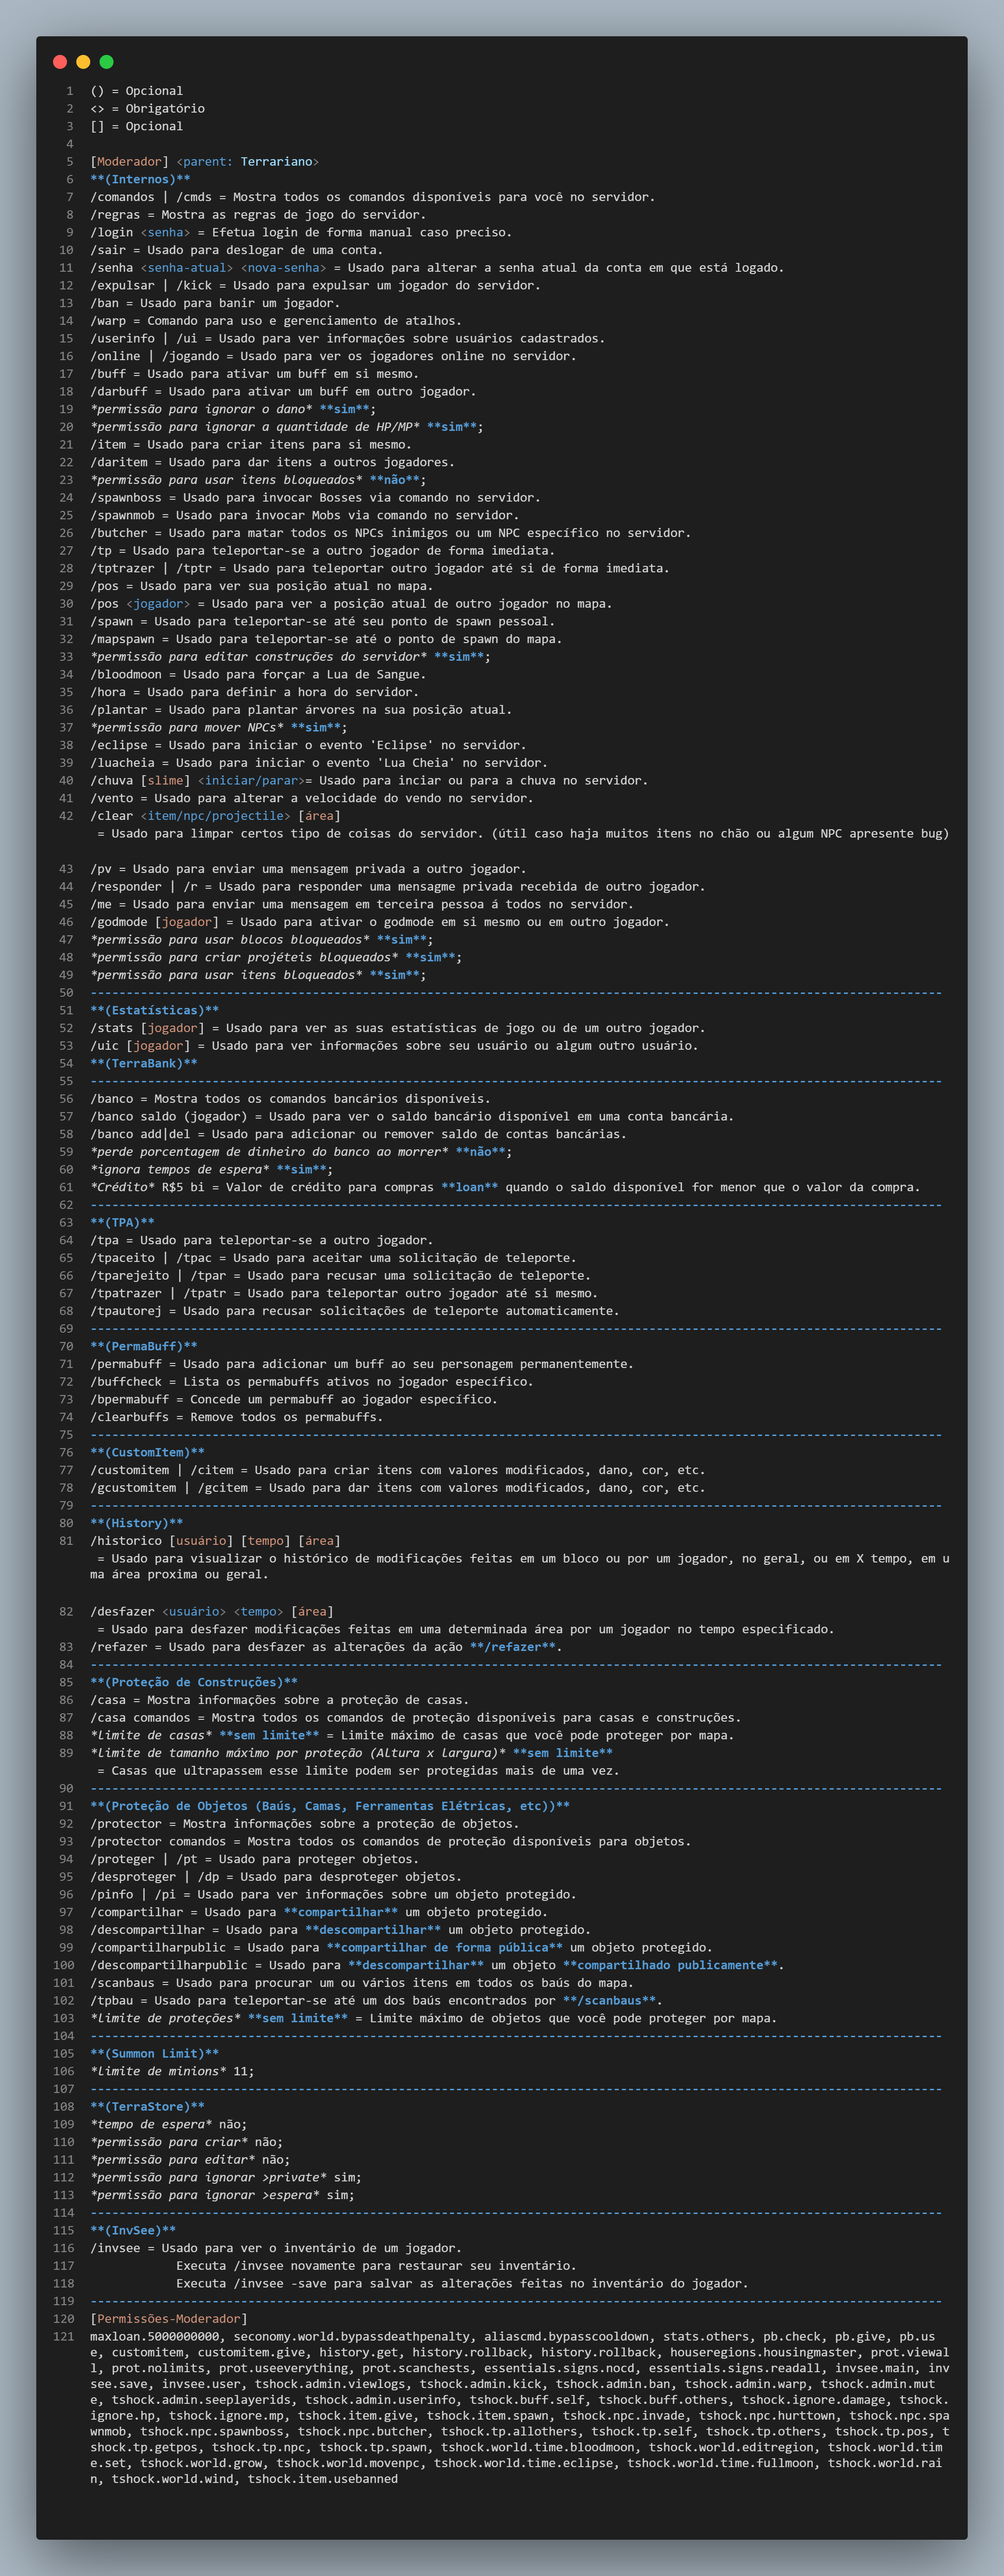
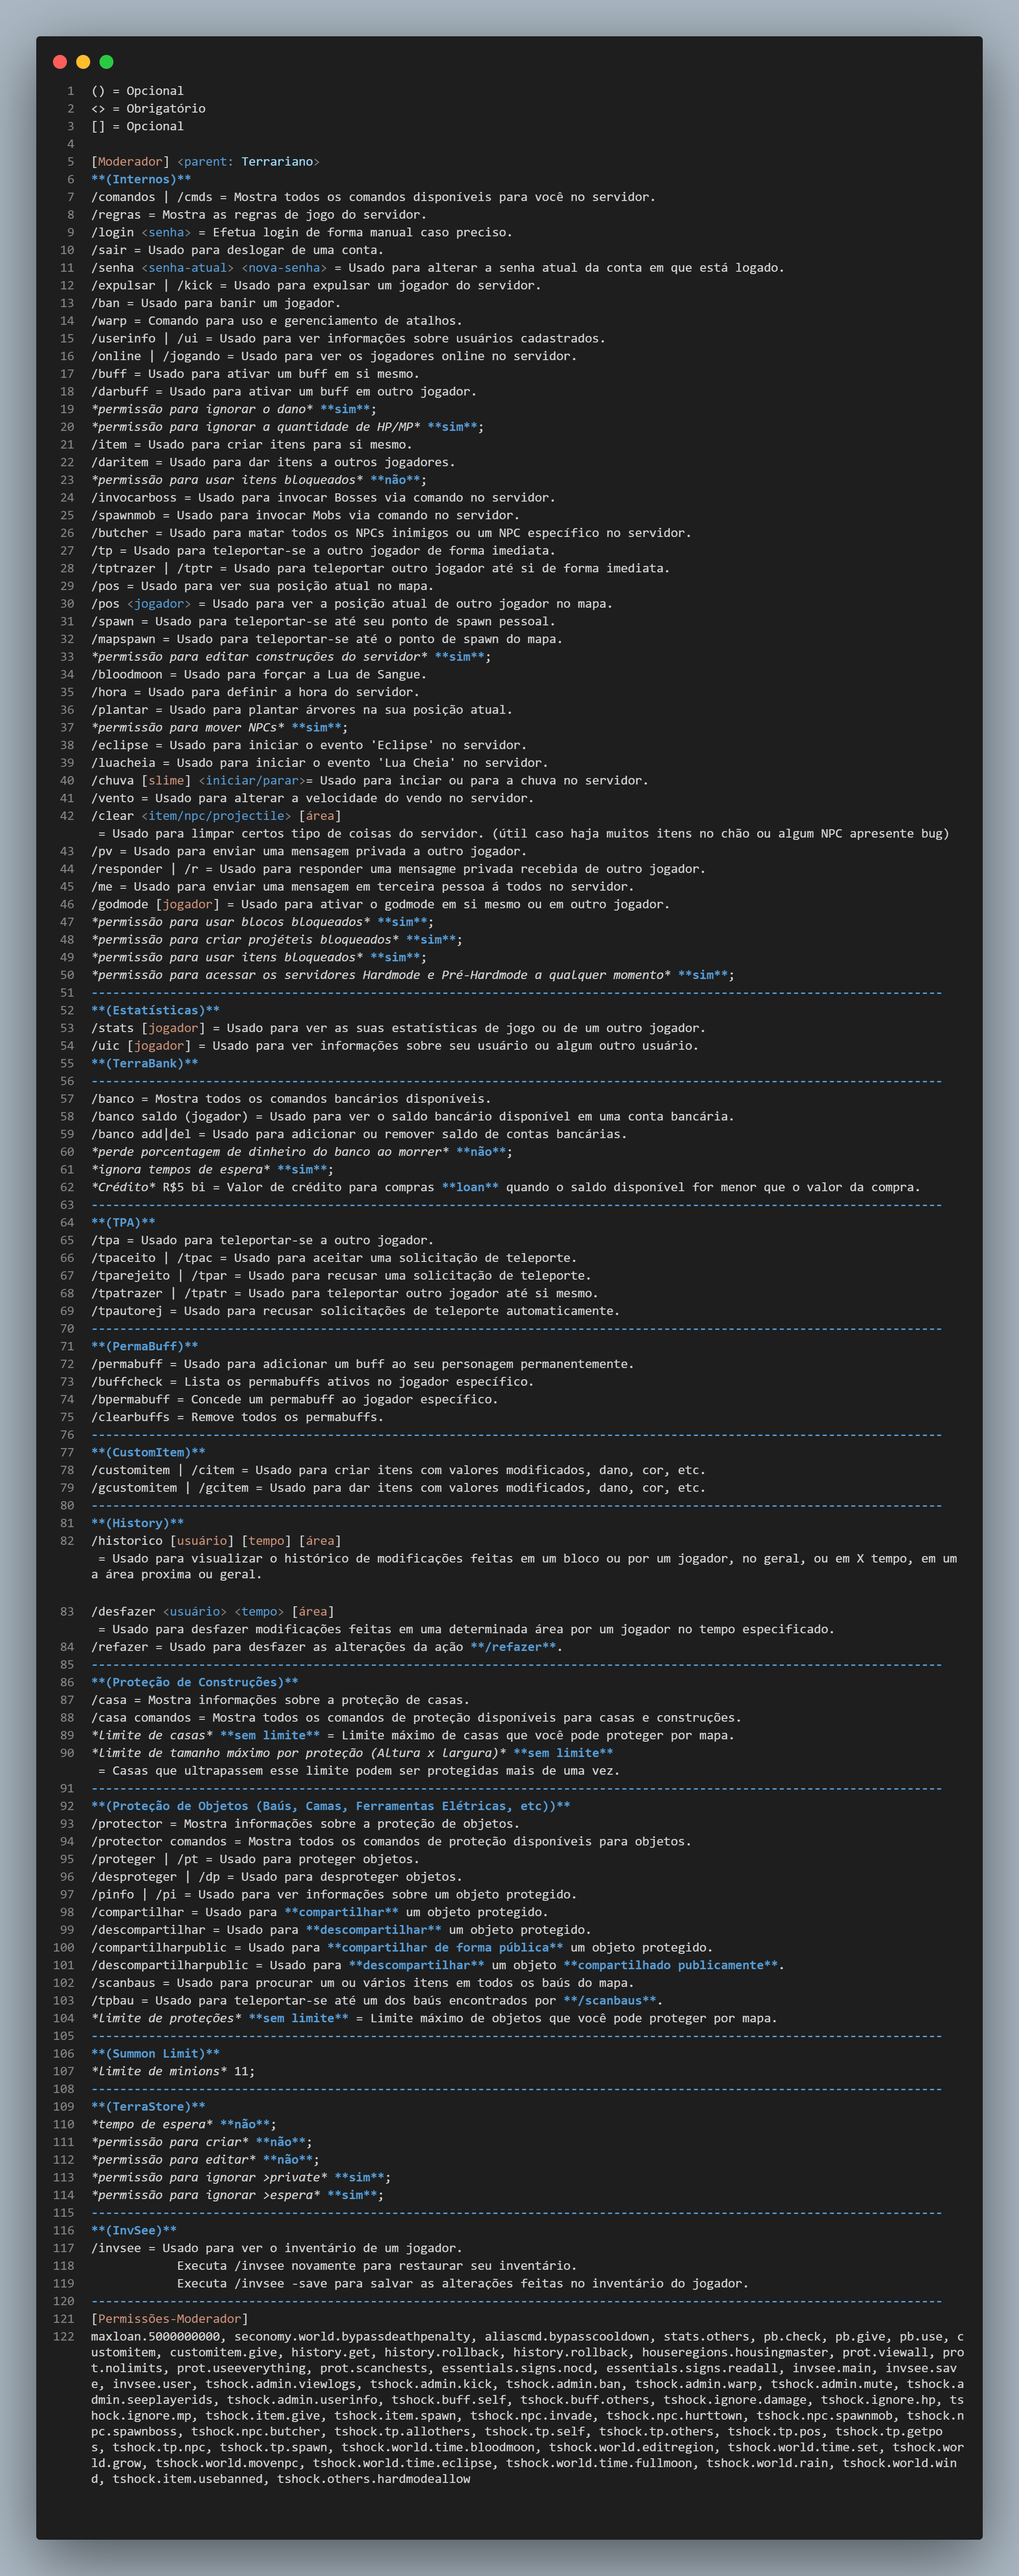
1.2

diff --git a/Mobile/1.3.0/Survival/Permissões/Moderador.md b/Mobile/1.3.0/Survival/Permissões/Moderador.md
@@ -21,7 +21,7 @@
 /item = Usado para criar itens para si mesmo.
 /daritem = Usado para dar itens a outros jogadores.
 *permissão para usar itens bloqueados* **não**;
-/spawnboss = Usado para invocar Bosses via comando no servidor.
+/invocarboss = Usado para invocar Bosses via comando no servidor.
 /spawnmob = Usado para invocar Mobs via comando no servidor.
 /butcher = Usado para matar todos os NPCs inimigos ou um NPC específico no servidor.
 /tp = Usado para teleportar-se a outro jogador de forma imediata.
@@ -47,6 +47,7 @@
 *permissão para usar blocos bloqueados* **sim**;
 *permissão para criar projéteis bloqueados* **sim**;
 *permissão para usar itens bloqueados* **sim**;
+*permissão para acessar os servidores Hardmode e Pré-Hardmode a qualquer momento* **sim**;
 -----------------------------------------------------------------------------------------------------------------------
 **(Estatísticas)**
 /stats [jogador] = Usado para ver as suas estatísticas de jogo ou de um outro jogador.
@@ -106,11 +107,11 @@
 *limite de minions* 11;
 -----------------------------------------------------------------------------------------------------------------------
 **(TerraStore)**
-*tempo de espera* não;
-*permissão para criar* não;
-*permissão para editar* não;
-*permissão para ignorar >private* sim;
-*permissão para ignorar >espera* sim;
+*tempo de espera* **não**;
+*permissão para criar* **não**;
+*permissão para editar* **não**;
+*permissão para ignorar >private* **sim**;
+*permissão para ignorar >espera* **sim**;
 -----------------------------------------------------------------------------------------------------------------------
 **(InvSee)**
 /invsee = Usado para ver o inventário de um jogador. 
@@ -118,4 +119,4 @@
             Executa /invsee -save para salvar as alterações feitas no inventário do jogador.
 -----------------------------------------------------------------------------------------------------------------------
 [Permissões-Moderador]
-maxloan.5000000000, seconomy.world.bypassdeathpenalty, aliascmd.bypasscooldown, stats.others, pb.check, pb.give, pb.use, customitem, customitem.give, history.get, history.rollback, history.rollback, houseregions.housingmaster, prot.viewall, prot.nolimits, prot.useeverything, prot.scanchests, essentials.signs.nocd, essentials.signs.readall, invsee.main, invsee.save, invsee.user, tshock.admin.viewlogs, tshock.admin.kick, tshock.admin.ban, tshock.admin.warp, tshock.admin.mute, tshock.admin.seeplayerids, tshock.admin.userinfo, tshock.buff.self, tshock.buff.others, tshock.ignore.damage, tshock.ignore.hp, tshock.ignore.mp, tshock.item.give, tshock.item.spawn, tshock.npc.invade, tshock.npc.hurttown, tshock.npc.spawnmob, tshock.npc.spawnboss, tshock.npc.butcher, tshock.tp.allothers, tshock.tp.self, tshock.tp.others, tshock.tp.pos, tshock.tp.getpos, tshock.tp.npc, tshock.tp.spawn, tshock.world.time.bloodmoon, tshock.world.editregion, tshock.world.time.set, tshock.world.grow, tshock.world.movenpc, tshock.world.time.eclipse, tshock.world.time.fullmoon, tshock.world.rain, tshock.world.wind, tshock.item.usebanned
+maxloan.5000000000, seconomy.world.bypassdeathpenalty, aliascmd.bypasscooldown, stats.others, pb.check, pb.give, pb.use, customitem, customitem.give, history.get, history.rollback, history.rollback, houseregions.housingmaster, prot.viewall, prot.nolimits, prot.useeverything, prot.scanchests, essentials.signs.nocd, essentials.signs.readall, invsee.main, invsee.save, invsee.user, tshock.admin.viewlogs, tshock.admin.kick, tshock.admin.ban, tshock.admin.warp, tshock.admin.mute, tshock.admin.seeplayerids, tshock.admin.userinfo, tshock.buff.self, tshock.buff.others, tshock.ignore.damage, tshock.ignore.hp, tshock.ignore.mp, tshock.item.give, tshock.item.spawn, tshock.npc.invade, tshock.npc.hurttown, tshock.npc.spawnmob, tshock.npc.spawnboss, tshock.npc.butcher, tshock.tp.allothers, tshock.tp.self, tshock.tp.others, tshock.tp.pos, tshock.tp.getpos, tshock.tp.npc, tshock.tp.spawn, tshock.world.time.bloodmoon, tshock.world.editregion, tshock.world.time.set, tshock.world.grow, tshock.world.movenpc, tshock.world.time.eclipse, tshock.world.time.fullmoon, tshock.world.rain, tshock.world.wind, tshock.item.usebanned, tshock.others.hardmodeallow

diff --git a/Mobile/1.3.0/Survival/Permissões/Proteção de Objetos/Protegidos Manualmente.md b/Mobile/1.3.0/Survival/Permissões/Proteção de Objetos/Protegidos Manualmente.md
@@ -1,0 +1,40 @@
+Significa que estes objetos só serão protegidos se algum jogador protegê-lo, tornando-se o dono.
+E então estes objetos só poderão ser __USADOS/MODIFICADOS__ pelo __jogador (dono)__ que o protegeu __OU__ jogadores que receberam permissão do dono. 
+
+[Objetos_que_São_Protegidos_Manualmente] <comando: /proteger>
+>>>>Update 1
+# All Doors (10 & 11)
+# Iron/Lead Anvil (16)
+# Chest (21)
+# Piggy Bank (29)
+# Sign (55)
+# Clay Pot (77)
+# Bed (79)
+# All Tombstones (85)
+# Dreeser (88)
+# Keg (94)
+# Safe (97)
+# All Statues (105)
+# Lever (132)
+# All Pressure Plates (135)
+# Switch (136)
+# All Traps (137)
+# All Music Box (139)
+# Inlet Pump (142)
+# Outled Pump (143)
+# 1/3/5 Second Timer (144)
+# Water Fountain (207)
+# All Cannons (209)
+# Snowball Launcher (212)
+# Red/Green/Blue/Yellow Rocket (216)
+# Teleporter (235)
+# Bubble Machine (244)
+# Pumpkin Seed (254)
+# Trap Door (386 & 387)
+# Tail Gate (388 & 389)
+# Denotator (411)
+# Crystal/Golden Chest (467)
+
+  <ManuallyProtectableTiles>
+    10, 11, 21, 29, 55, 77, 79, 85, 88, 94, 97, 105, 114, 132, 135, 136, 137, 139, 142, 143, 144, 207, 209, 212, 235, 244, 254, 386, 387, 388, 389, 411, 467
+  </ManuallyProtectableTiles>

diff --git a/Mobile/1.3.0/Survival/Permissões/Proteção de Objetos/Protegidos Automaticamente.md b/Mobile/1.3.0/Survival/Permissões/Proteção de Objetos/Protegidos Automaticamente.md
@@ -1,0 +1,27 @@
+Significa que estes objetos só podem ser __USADOS/MODIFICADOS__ pelo __jogador (dono)__ que o colocou __OU__ jogadores que receberam permissão do dono. 
+
+[Objetos_que_São_Protegidos_Automaticamente] <se: forem serem colocados por algum jogador>
+>>>>Update 1
+# Chest (21)
+# Sign (55)
+# Bed (79)
+# Dreeser (88)
+# Safe (97)
+# All Statues (105)
+# Lever (132)
+# Switch (136)
+# All Music Box (139)
+# Inlet Pump (142)
+# Outled Pump (143)
+# 1/3/5 Second Timer (144)
+# Water Fountain (207)
+# Red/Green/Blue/Yellow Rocket (216)
+# Teleporter (235)
+# Text Statues (337)
+# Mushroom Statue (349)
+# Trap Door (386 & 387)
+# Crystal/Golden Chest (467)
+
+  <AutoProtectedTiles>
+    21, 55, 79, 88, 97, 105, 132, 136, 139, 142, 143, 144, 207, 216, 235, 337, 349, 386, 387, 467
+  </AutoProtectedTiles>

diff --git a/Mobile/1.3.0/Survival/Permissões/ClientAPI.md b/Mobile/1.3.0/Survival/Permissões/ClientAPI.md
@@ -1,0 +1,8 @@
+() = Opcional
+<> = Obrigatório
+[] = Opcional
+
+[ClientAPI] <parent: null>
+-----------------------------------------------------------------------------------------------------------------------
+[Permissões-ClientAPI]
+tshock.rest.useapi,eduardooviip.discordbot.canchat,eduardooviip.discordbot.linkaccount
